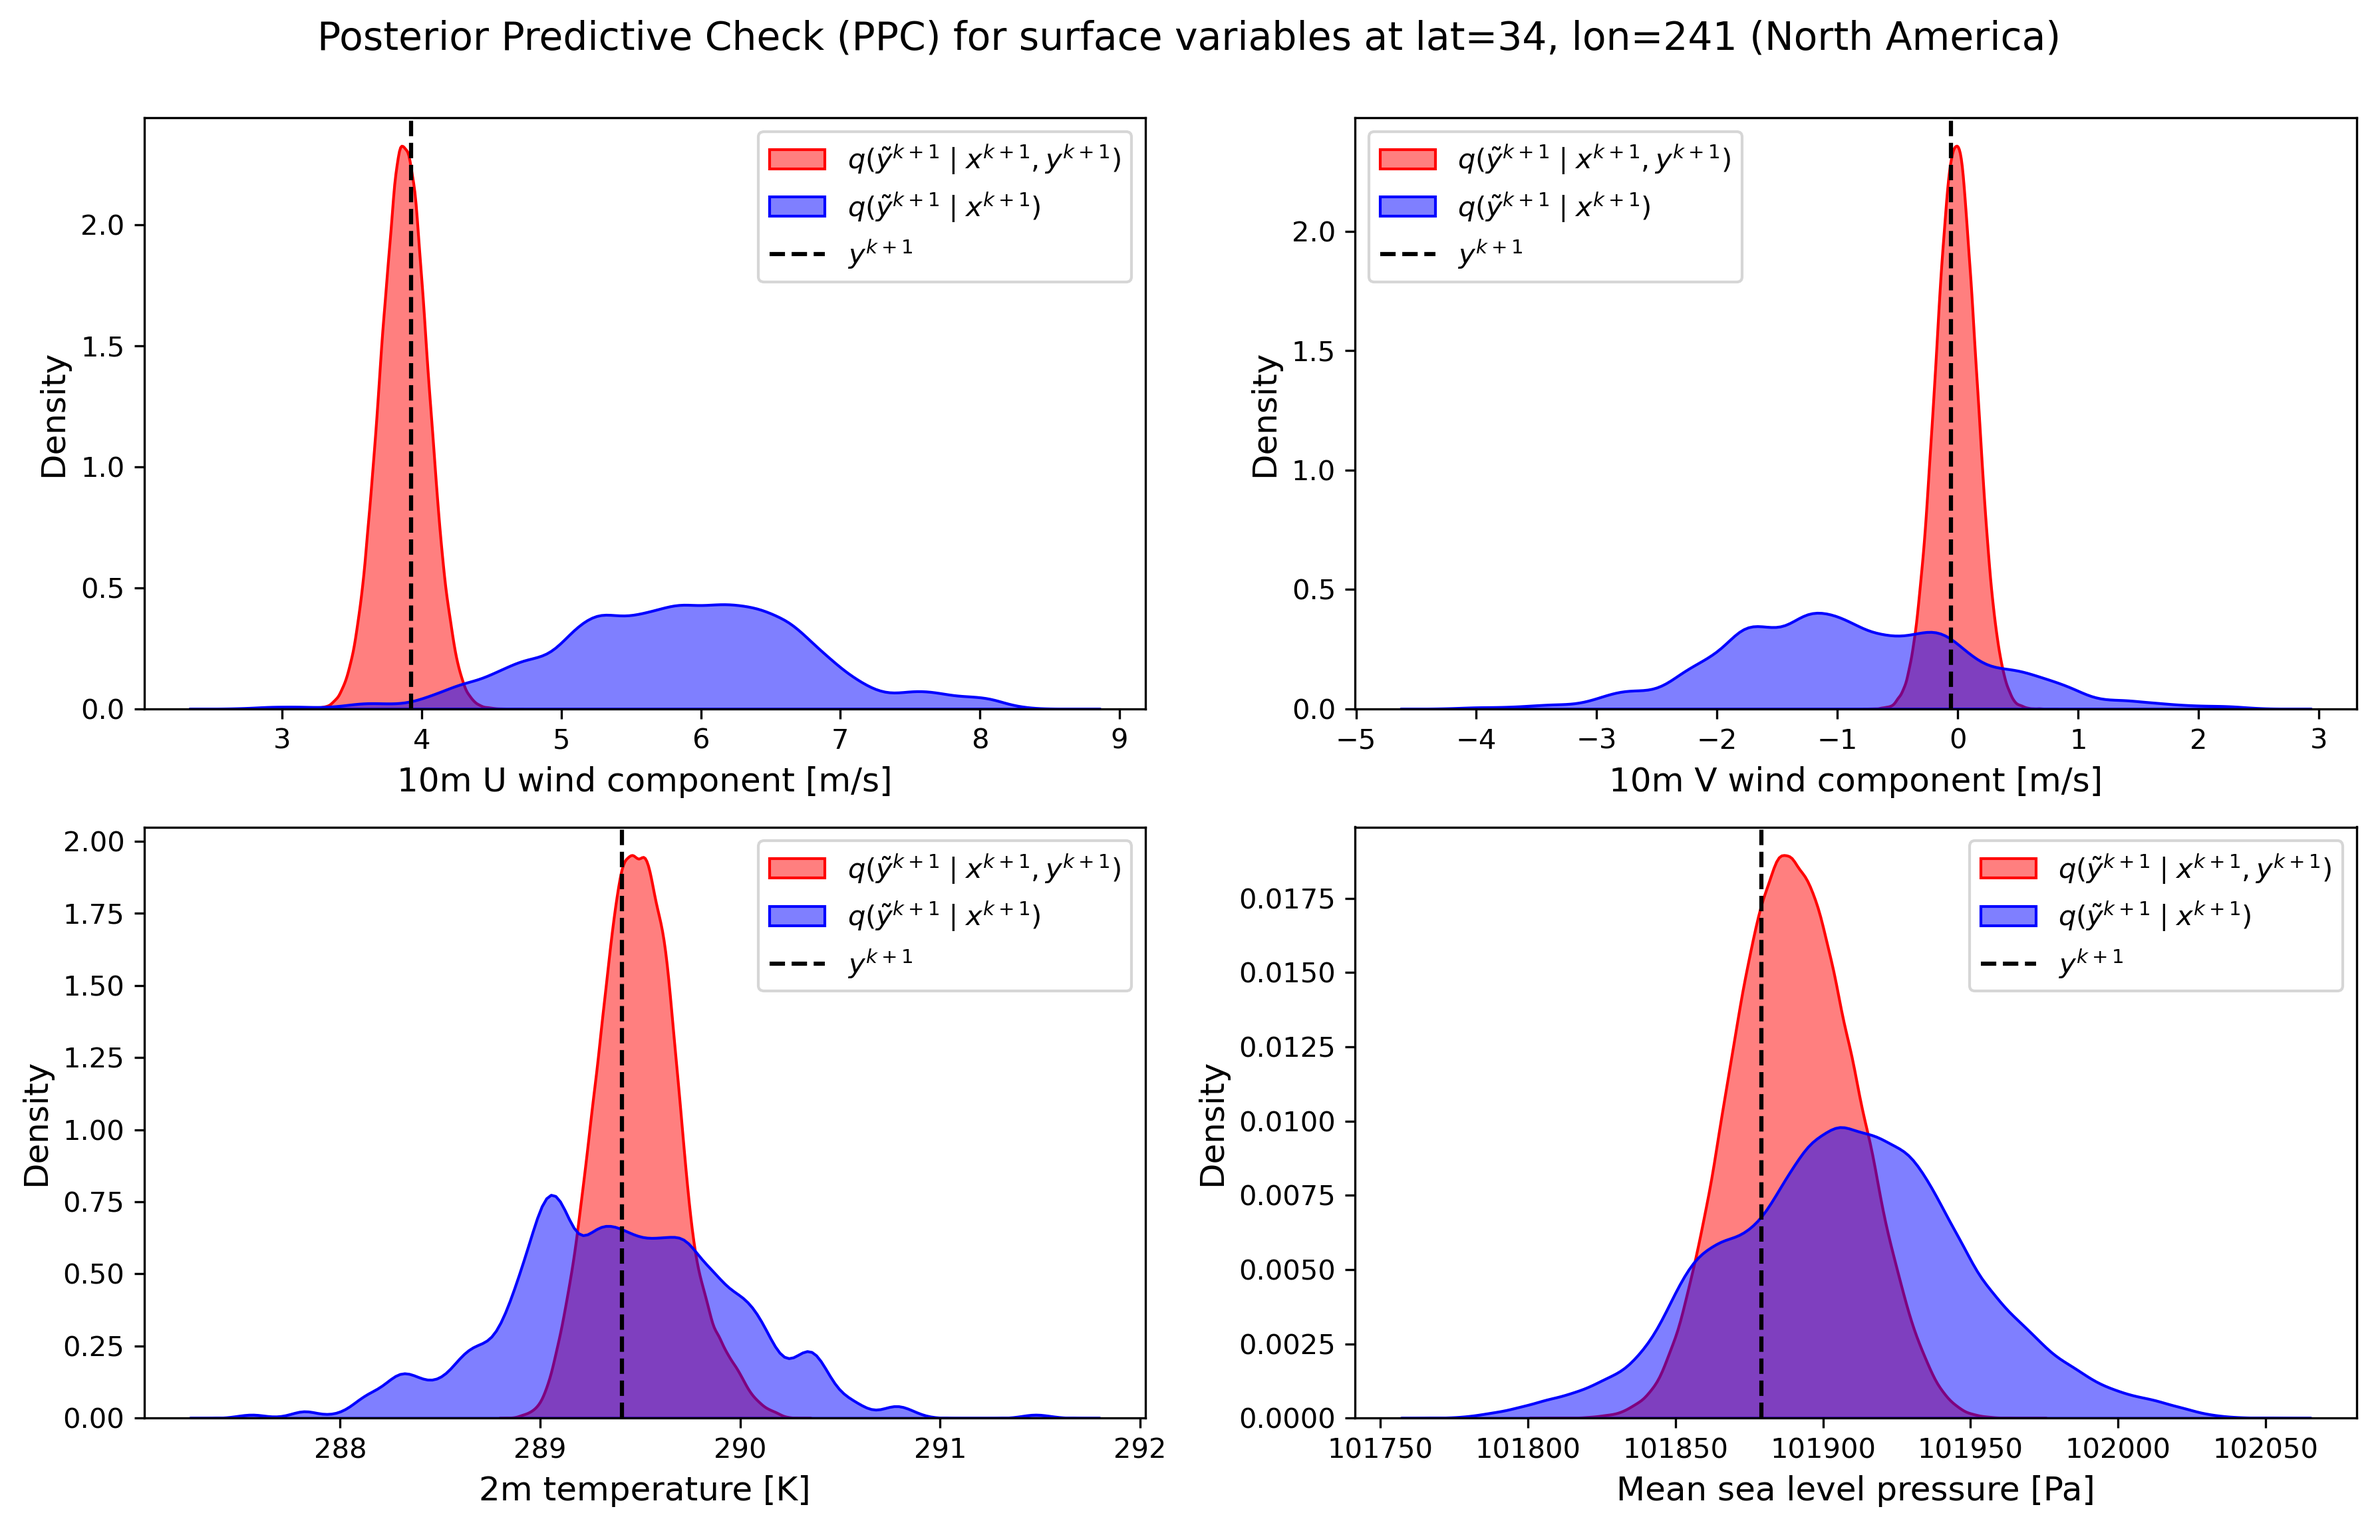
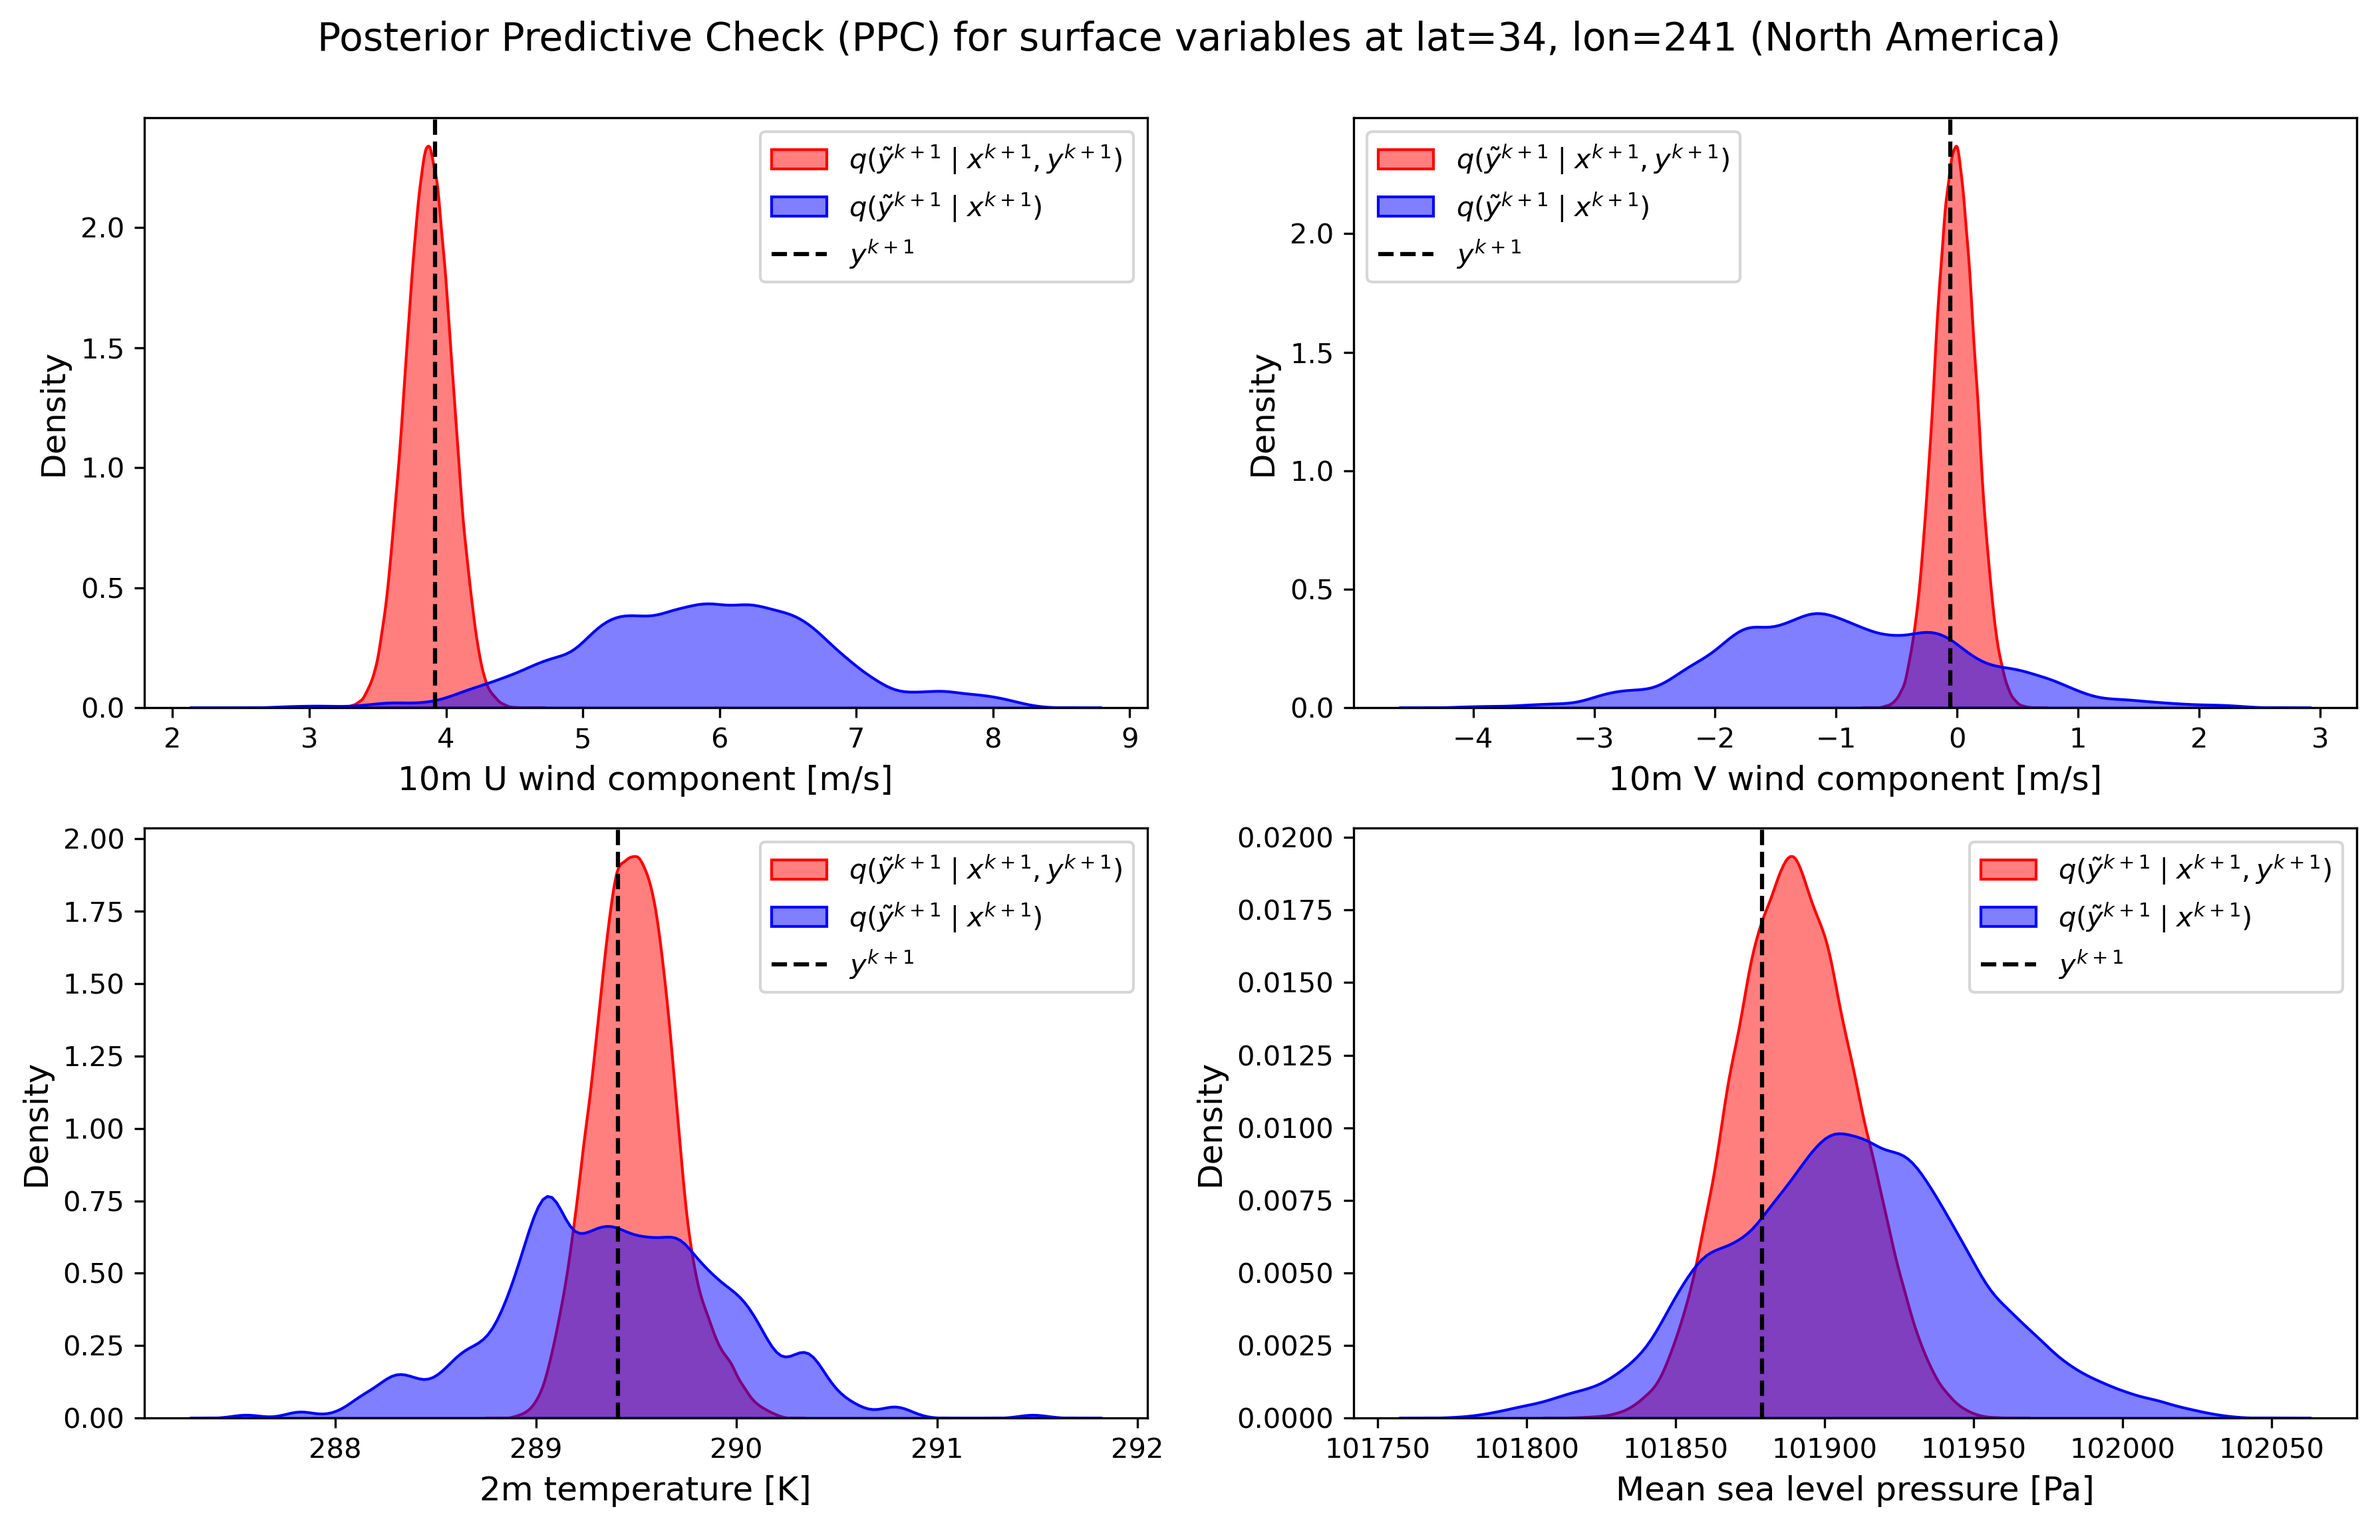
Plot PPC

diff --git a/filtering/posterior_predictive_check.py b/filtering/posterior_predictive_check.py
@@ -478,13 +478,13 @@ def generate_distribution(
     unconditional_path: str,
     num_samples: int,
     num_draws: int,
-    variable: Union[str, Tuple],
+    variables: List[Union[str, List]],
     lat: int,
     lon: int,
     mask_satellite: Array,
     mask_weather_stations: Array,
-    std: float,
-) -> Tuple[float, np.ndarray]:
+    stds: Dict,
+) -> Tuple[np.ndarray, np.ndarray]:
     """
     Generate an approximation of the conditional posterior predictive distribution for a specific variable at a specific location.
     Input(s)
@@ -493,15 +493,15 @@ def generate_distribution(
         - unconditional_path (str): path to samples genereted using the classical GenCast denoiser
         - num_samples (int): number of samples to use to approximate the conditional PPC disitribution
         - num_draws (int): number of samples to draw in order to approximate p(tilde{y}^{k+1} | x^{k+1}_{(i)})
-        - variable (Union[str, Tuple]): variable of interest (and corresponding level of interest if it is atmospheric variable)
+        - variables (List[Union[str, List]]): variables of interest (and corresponding level of interest if it is atmospheric variable)
         - lat (int): latitude of interest, should be between -90 and 90
         - lon (int): longitude of interest, should be between 0 and 359
         - mask_satellite (Array): boolean Array of dimension (181, 360) corresponding to satellite observations
         - mask_weather_stations (Array): boolean Array of dimension (181, 360) corresponding to ground stations observations
-        - std (float): standard deviation of unnormalized observations for the variable of interest
+        - stds (Dict): standard deviation of unnormalized observations for the variable of interest
     Returns
-        - y (float): y^{k+1} used by the conditional denoiser during posterior sampling
-        - distributions (Array): approximation of conditional and unconditional PPC distributions with dimension (2, num_samples * num_draws)
+        - y (np.ndarray): y^{k+1} used by the conditional denoiser during posterior sampling with dimension (len(variables),)
+        - distributions (np.ndarray): approximation of conditional and unconditional PPC distributions with dimension (2, len(variables), num_samples * num_draws)
     """
     # Check if there are enough samples
     num_conditional_samples = int(
@@ -519,64 +519,77 @@ def generate_distribution(
     lat, lon = int(lat + 90), lon
 
     # Check that the location has been observed during sampling
-    if isinstance(variable, Tuple):
-        assert bool(mask_satellite[lat, lon])
-    else:
-        assert bool(mask_weather_stations[lat, lon])
+    for variable in variables:
+        if isinstance(variable, List):
+            assert bool(mask_satellite[lat, lon])
+        else:
+            assert bool(mask_weather_stations[lat, lon])
 
     # Approximate distributions
-    conditional_distribution = []
-    unconditional_distribution = []
+    distributions = []
     for i in tqdm(range(1, num_samples + 1)):
-        # Load the conditional sample and extract data
+        # Load the conditional sample
         if conditional_path[-1] == '/':
             conditional_sample_path = conditional_path + str(i) + str(".nc")
         else:
             conditional_sample_path = conditional_path + str("/") + str(i) + str(".nc")
         with open(conditional_sample_path, 'rb') as file:
             conditional_sample = xarray.load_dataset(file, decode_timedelta=False).compute()
-        conditional_data = conditional_sample.isel(lat=[lat], lon=[lon])
-        if isinstance(variable, Tuple):
-            conditional_data = conditional_data.sel(level=[variable[-1]])
-            conditional_data = conditional_data[variable[0]].values.item()
-        else:
-            conditional_data = conditional_data[variable].values.item()
+        conditional_sample = conditional_sample.isel(lat=[lat], lon=[lon])
 
-        # Load the unconditional sample and extract data
+        # Load the unconditional sample
         if unconditional_path[-1] == '/':
             unconditional_sample_path = unconditional_path + str(i) + str(".nc")
         else:
             unconditional_sample_path = unconditional_path + str("/") + str(i) + str(".nc")
         with open(unconditional_sample_path, 'rb') as file:
             unconditional_sample = xarray.load_dataset(file, decode_timedelta=False).compute()
-        unconditional_data = unconditional_sample.isel(lat=[lat], lon=[lon])
-        if isinstance(variable, Tuple):
-            unconditional_data = unconditional_data.sel(level=[variable[-1]])
-            unconditional_data = unconditional_data[variable[0]].values.item()
-        else:
-            unconditional_data = unconditional_data[variable].values.item()
+        unconditional_sample = unconditional_sample.isel(lat=[lat], lon=[lon])
 
-        # Generate and add noise
-        noise = std * np.random.randn(num_draws)
-        conditional_data = conditional_data + noise
-        unconditional_data = unconditional_data + noise
+        # Extract data for each variable, add noise and update the lists
+        conditional_distribution = []
+        unconditional_distribution = []
+        for variable in variables:
+            if isinstance(variable, List):
+                conditional_data = conditional_sample.sel(level=[int(variable[-1])])
+                conditional_data = conditional_data[str(variable[0])].values.item()
+                unconditional_data = unconditional_sample.sel(level=[int(variable[-1])])
+                unconditional_data = unconditional_data[str(variable[0])].values.item()
+            else:
+                conditional_data = conditional_sample[str(variable)].values.item()
+                unconditional_data = unconditional_sample[str(variable)].values.item()
+            if isinstance(variable, List):
+                std = float(stds[str(variable[0])][int(variable[-1])])
+            else:
+                std = float(stds[str(variable)])
+            noise = std * np.random.randn(num_draws)
+            conditional_data = conditional_data + noise
+            unconditional_data = unconditional_data + noise
 
-        # Update lists
-        conditional_distribution.append(conditional_data)
-        unconditional_distribution.append(unconditional_data)
+            # Update lists
+            conditional_distribution.append(conditional_data)
+            unconditional_distribution.append(unconditional_data)
 
-    # Convert lists to a numpy array
-    conditional_distribution = np.concatenate(conditional_distribution)
-    unconditional_distribution = np.concatenate(unconditional_distribution)
-    distributions = np.vstack((conditional_distribution, unconditional_distribution))
+        # Transform the lists to numpy arrays
+        conditional_distribution = np.vstack(conditional_distribution)
+        unconditional_distribution = np.vstack(unconditional_distribution)
+        distribution = np.stack([conditional_distribution, unconditional_distribution], axis = 0)
+        distributions.append(distribution)
+
+    # Convert the result to a numpy array
+    distributions = np.concatenate(distributions, axis=-1)
 
     # Get the observation used during posterior sampling
-    y = eval_target.isel(lat=[lat], lon=[lon])
-    if isinstance(variable, Tuple):
-        y = y.sel(level=[variable[-1]])
-        y = y[variable[0]].values.item()
-    else:
-        y = y[variable].values.item()
+    y = []
+    eval_target = eval_target.isel(lat=[lat], lon=[lon])
+    for variable in variables:
+        if isinstance(variable, List):
+            obs = eval_target.sel(level=[int(variable[-1])])
+            obs = obs[str(variable[0])].values.item()
+        else:
+            obs = eval_target[str(variable)].values.item()
+        y.append(obs)
+    y = np.asarray(y)
 
     return y, distributions
 
@@ -626,7 +639,6 @@ def plot_PPC(
         - xlabels (List[str]): labels to use for the figure
     """
     # Checks
-    assert len(stds) == len(variables)
     assert len(variables) == (num_row * num_col)
 
     # Load the eval_target
@@ -653,35 +665,27 @@ def plot_PPC(
     fig, axes = plt.subplots(num_row, num_col, figsize=figsize)
     axes = axes.flatten()
 
+    # Get the data to be plotted
+    y, distributions = generate_distribution(
+        eval_target=eval_targets,
+        conditional_path=conditional_path,
+        unconditional_path=unconditional_path,
+        num_samples=num_samples,
+        num_draws=num_draws,
+        variables=variables,
+        lat=lat,
+        lon=lon,
+        mask_satellite=mask_sat,
+        mask_weather_stations=mask_ws,
+        stds=stds,
+    )
+
     # Create subplots
     for j, ax in enumerate(axes):
 
-        # Get the standard deviation
-        variable = variables[j]
-        if isinstance(variable, Tuple):
-            level = str(variable[-1])
-            std = float(stds[variable[0]][level])
-        else:
-            std = float(stds[variable])
-
-        # Get the data to plot
-        y, distributions = generate_distribution(
-            eval_target=eval_targets,
-            conditional_path=conditional_path,
-            unconditional_path=unconditional_path,
-            num_samples=num_samples,
-            num_draws=num_draws,
-            variable=variable,
-            lat=lat,
-            lon=lon,
-            mask_satellite=mask_sat,
-            mask_weather_stations=mask_ws,
-            std=std,
-        )
-
         # Plot the conditional data
         sns.kdeplot(
-            distributions[0,:],
+            distributions[0, j, :],
             ax=ax,
             color=colors[0],
             label=r"$q(\tilde{y}^{k+1} \mid x^{k+1}, y^{k+1})$",
@@ -691,7 +695,7 @@ def plot_PPC(
 
         # Plot the unconditional data
         sns.kdeplot(
-            distributions[1, :],
+            distributions[1, j, :],
             ax=ax,
             color=colors[1],
             label=r"$q(\tilde{y}^{k+1} \mid x^{k+1})$",
@@ -700,7 +704,7 @@ def plot_PPC(
         )
 
         # Plot the true observation
-        ax.axvline(y, color=colors[-1], linestyle="--", label=r"$y^{k+1}$")
+        ax.axvline(y[j], color=colors[-1], linestyle="--", label=r"$y^{k+1}$")
 
         # Set the label
         ax.set_xlabel(xlabels[j], fontsize=12)
